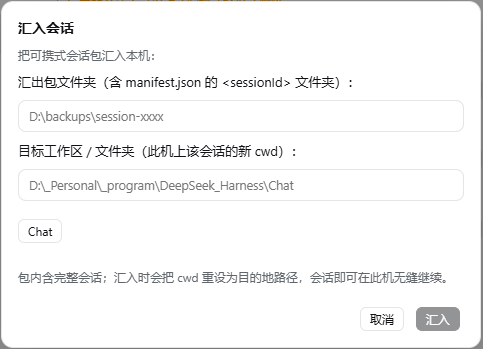
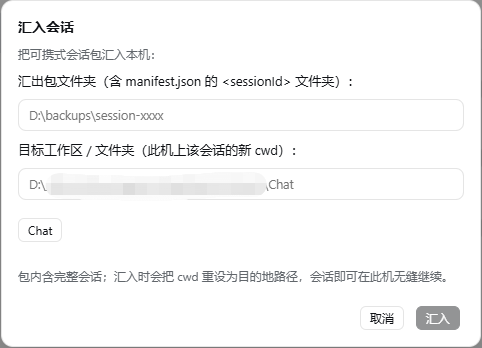
docs(zh-CN): add cross-machine note in Chinese; refresh import screenshot

diff --git a/README.zh-CN.md b/README.zh-CN.md
@@ -46,6 +46,8 @@
 2. 把该包复制到 B 机；
 3. 在 B 机：「汇入」该包并选择会话应归属的工作区/文件夹——汇入会把 `cwd` 重设为 B 机的路径（会话内容不变），会话即可在 B 机无缝继续。
 
+> 工作区 = 文件夹，会通过 header 的 `cwd` 关联，而 `cwd` 是每台机器专属的绝对路径。因此 A 机备份的会话要搬到 B 机继续，需要用「汇入」把 `cwd` 重设为 B 机上存在的路径。
+
 ## 截图
 
 **会话语管理页**
